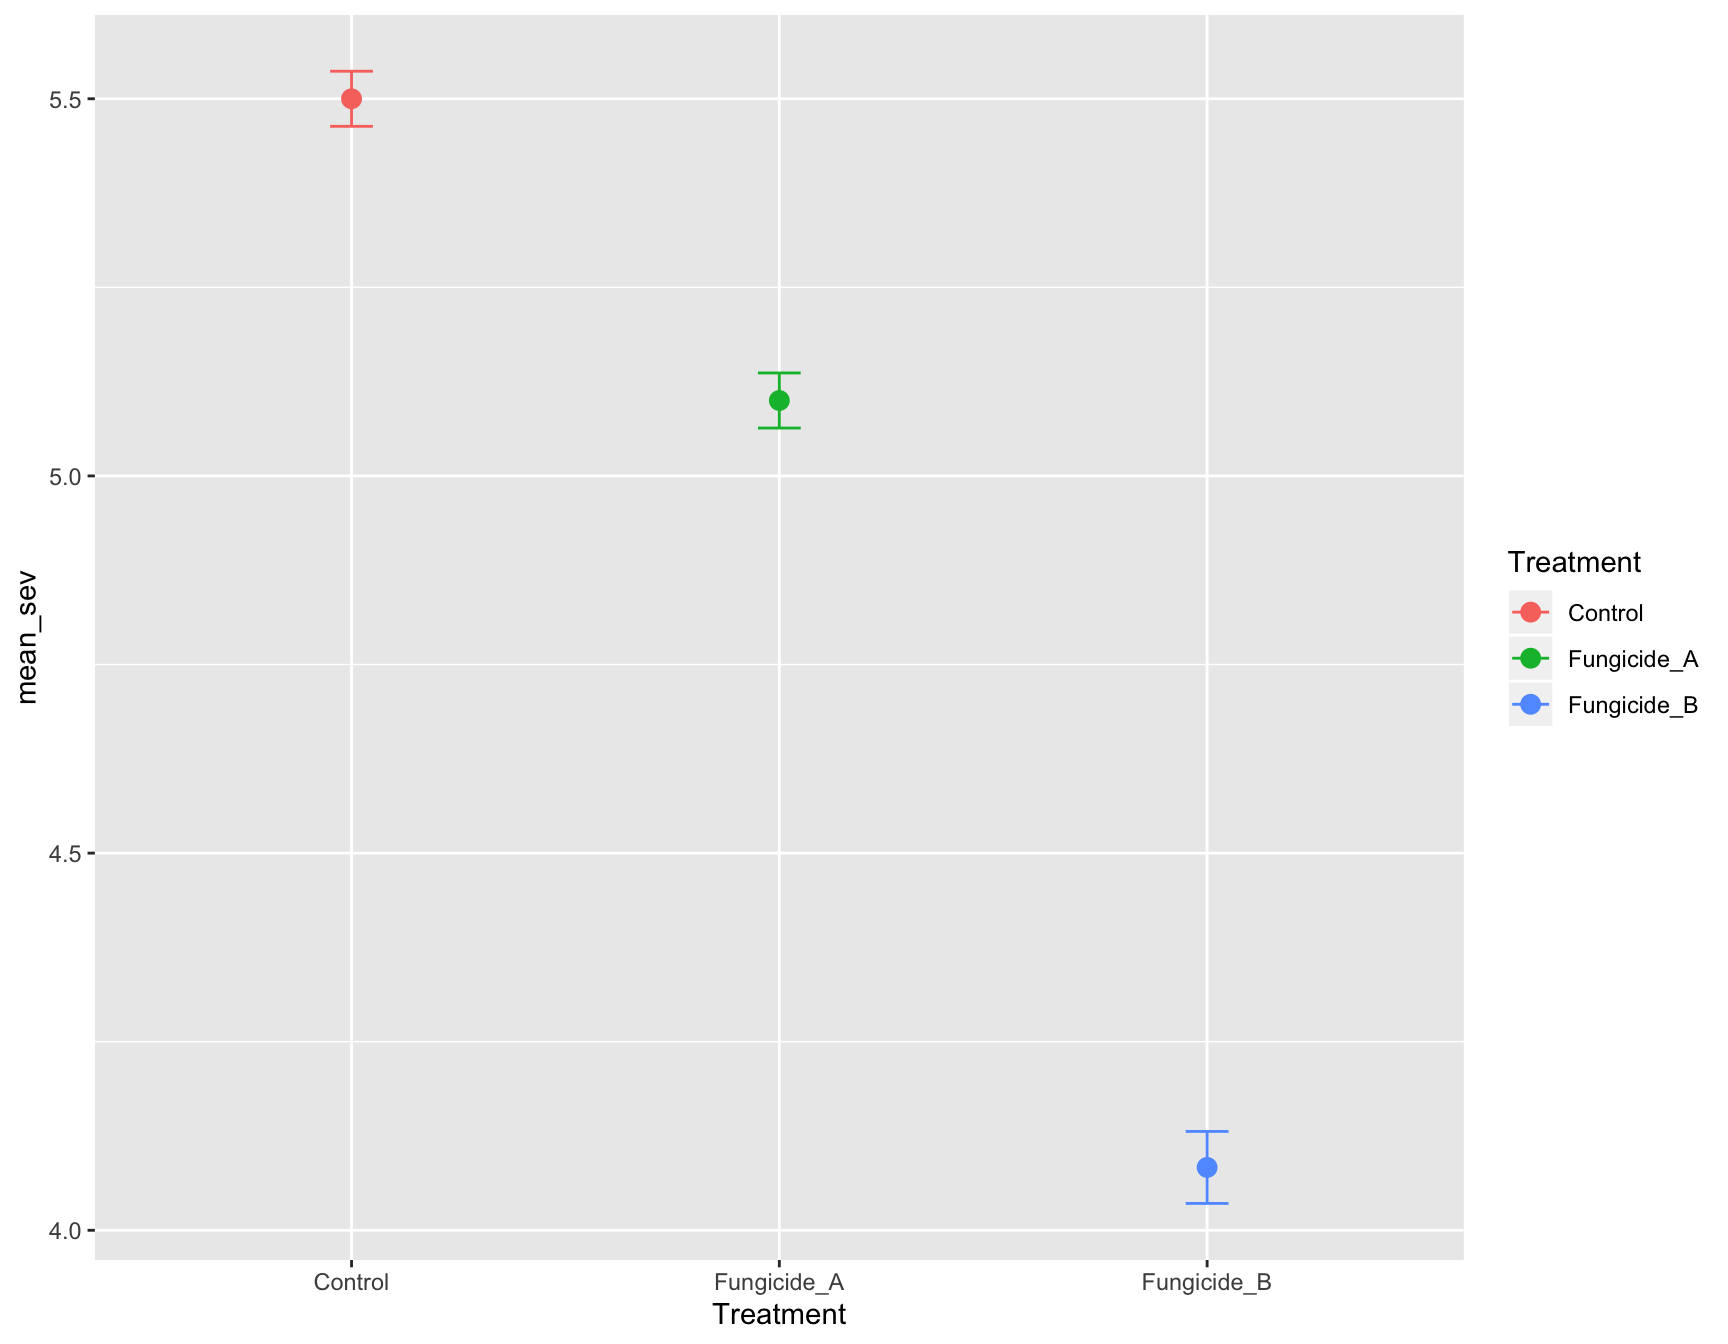
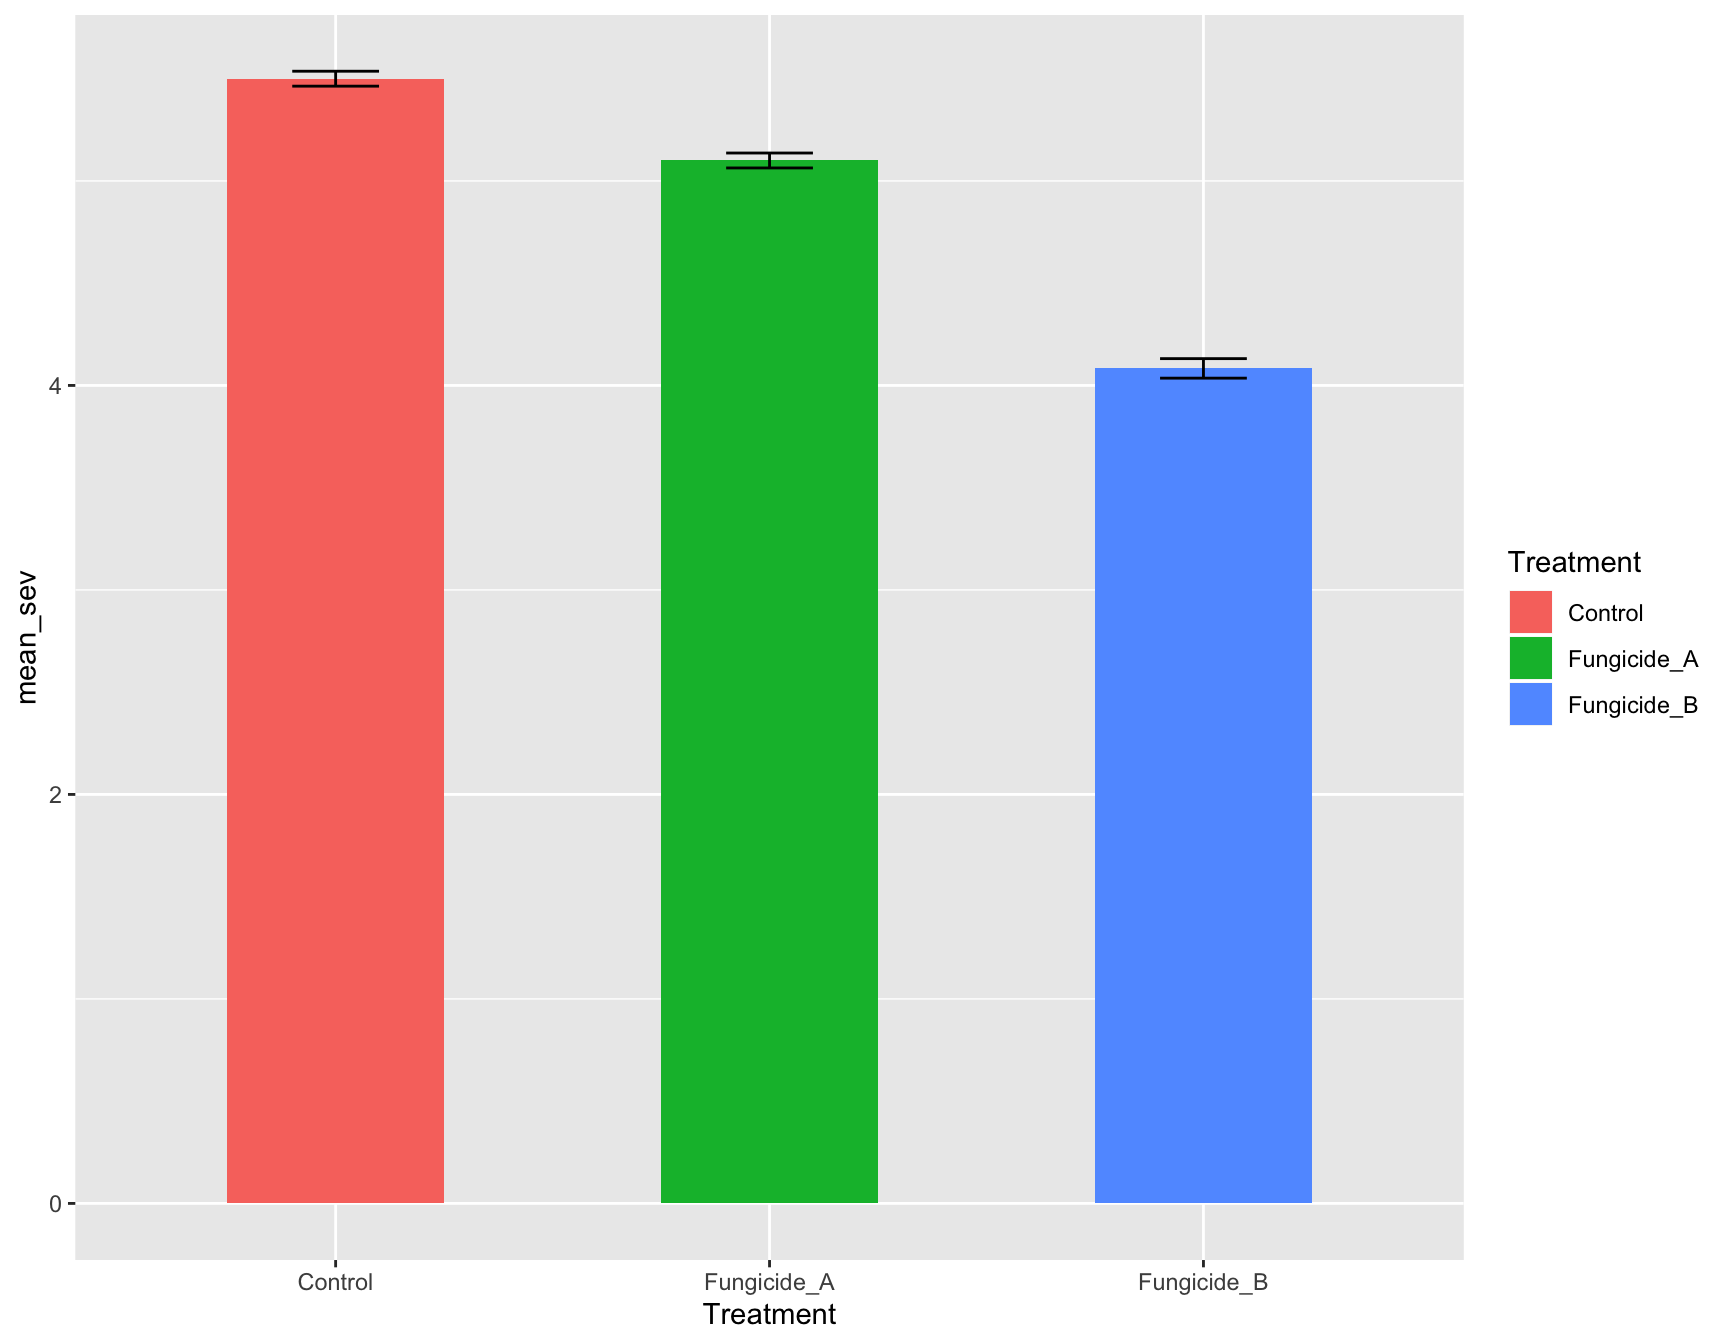
Added presentation for Part 1

diff --git a/docs/Part2b-Visualization.html b/docs/Part2b-Visualization.html
@@ -430,11 +430,7 @@ div.tocify {
 </div>
 <div id="getting-started" class="section level3">
 <h3>Getting started</h3>
-<pre class="r"><code>&gt; install.packages(&quot;ggplot2&quot;, 
-+                  repos = &quot;https://cran.rstudio.com&quot;)</code></pre>
-<pre><code>
-The downloaded binary packages are in
-    /var/folders/y1/z82xd0b501193md_9_d3vs9r0000gn/T//Rtmp1bvfKn/downloaded_packages</code></pre>
+<p>install.packages(“ggplot2”)</p>
 <pre class="r"><code>&gt; library(&quot;ggplot2&quot;)</code></pre>
 <p>Data for plotting with ggplot2 must be stored in a data frame</p>
 <pre class="r"><code>&gt; fungicide &lt;- read.csv(&quot;data/fungicide_dat.csv&quot;) # read.csv automatically outputs a data frame</code></pre>
@@ -611,12 +607,7 @@ The downloaded binary packages are in
 <pre class="r"><code>&gt; (severity.plot &lt;- severity.plot + 
 +     geom_boxplot(fill = c(&quot;gray&quot;, &quot;skyblue&quot;, &quot;violet&quot;)))</code></pre>
 <p><img src="Part2b-Visualization_files/figure-html/unnamed-chunk-20-1.png" width="100%" style="display: block; margin: auto;" /></p>
-<p>If you have a hard time selecting color combinations, don’t worry! The package “RColorBrewer” has a number of palettes that you can choose from.</p>
-<pre class="r"><code>&gt; install.packages(&quot;RColorBrewer&quot;, 
-+                  repos = &quot;https://cran.rstudio.com&quot;)</code></pre>
-<pre><code>
-The downloaded binary packages are in
-    /var/folders/y1/z82xd0b501193md_9_d3vs9r0000gn/T//Rtmp1bvfKn/downloaded_packages</code></pre>
+<p>If you have a hard time selecting color combinations, don’t worry! The package “RColorBrewer” has a number of palettes that you can choose from. install.packages(“RColorBrewer”)</p>
 <pre class="r"><code>&gt; library(&quot;RColorBrewer&quot;)</code></pre>
 <p>The function ’display.brewer.all’shows a list of available palettes. Let’s look for a palette that’s colorblind friendly.</p>
 <pre class="r"><code>&gt; display.brewer.all(colorblindFriendly=TRUE)</code></pre>
@@ -626,12 +617,7 @@ The downloaded binary packages are in
 +     geom_boxplot(aes(fill = Treatment)) +
 +     scale_fill_brewer(palette = &quot;Dark2&quot;))</code></pre>
 <p><img src="Part2b-Visualization_files/figure-html/unnamed-chunk-23-1.png" width="100%" style="display: block; margin: auto;" /></p>
-<p>The graph looks great, but does not tell us about the statistics. How can we show which treatments are significantly different? We can use the package <code>ggpubr</code> to automatically add p-values and significance levels to a ggplot.</p>
-<pre class="r"><code>&gt; install.packages(&quot;ggpubr&quot;, 
-+                  repos = &quot;https://cran.rstudio.com&quot;)</code></pre>
-<pre><code>
-The downloaded binary packages are in
-    /var/folders/y1/z82xd0b501193md_9_d3vs9r0000gn/T//Rtmp1bvfKn/downloaded_packages</code></pre>
+<p>The graph looks great, but does not tell us about the statistics. How can we show which treatments are significantly different? We can use the package <code>ggpubr</code> to automatically add p-values and significance levels to a ggplot. install.packages(“ggpubr”)</p>
 <pre class="r"><code>&gt; library(&quot;ggpubr&quot;)</code></pre>
 <pre><code>Loading required package: magrittr</code></pre>
 <p>Let’s add a global p-value to see if there is any global difference.</p>
@@ -670,11 +656,7 @@ Attaching package: &#39;dplyr&#39;</code></pre>
 <pre><code>The following objects are masked from &#39;package:base&#39;:
 
     intersect, setdiff, setequal, union</code></pre>
-<pre class="r"><code>&gt; install.packages(&quot;plotrix&quot;, 
-+                  repos = &quot;https://cran.rstudio.com&quot;)</code></pre>
-<pre><code>
-The downloaded binary packages are in
-    /var/folders/y1/z82xd0b501193md_9_d3vs9r0000gn/T//Rtmp1bvfKn/downloaded_packages</code></pre>
+<p>install.packages(“plotrix”)</p>
 <pre class="r"><code>&gt; library(&quot;plotrix&quot;)
 &gt; 
 &gt; fungicide_m_se &lt;- fungicide %&gt;%
@@ -687,31 +669,31 @@ The downloaded binary packages are in
 +                     aes(x = Treatment,
 +                         y = mean_sev))
 &gt; m_se_plot  </code></pre>
-<p><img src="Part2b-Visualization_files/figure-html/unnamed-chunk-29-1.png" width="100%" style="display: block; margin: auto;" /></p>
+<p><img src="Part2b-Visualization_files/figure-html/unnamed-chunk-30-1.png" width="100%" style="display: block; margin: auto;" /></p>
 <div id="bar-graph-with-standard-errors" class="section level3">
 <h3>Bar graph with standard errors</h3>
 <pre class="r"><code>&gt; (m_se_plot_bar &lt;- m_se_plot + 
 +     geom_col(aes(fill = Treatment),
 +              width = 0.5)) </code></pre>
-<p><img src="Part2b-Visualization_files/figure-html/unnamed-chunk-30-1.png" width="100%" style="display: block; margin: auto;" /></p>
+<p><img src="Part2b-Visualization_files/figure-html/unnamed-chunk-31-1.png" width="100%" style="display: block; margin: auto;" /></p>
 <pre class="r"><code>&gt; (m_se_plot_bar &lt;- m_se_plot_bar +
 +     geom_errorbar(aes(ymin = mean_sev - se_sev,
 +                       ymax = mean_sev + se_sev),
 +                   width = 0.2)) </code></pre>
-<p><img src="Part2b-Visualization_files/figure-html/unnamed-chunk-30-2.png" width="100%" style="display: block; margin: auto;" /></p>
+<p><img src="Part2b-Visualization_files/figure-html/unnamed-chunk-31-2.png" width="100%" style="display: block; margin: auto;" /></p>
 </div>
 <div id="point-plot-with-standard-errors" class="section level3">
 <h3>Point plot with standard errors</h3>
 <pre class="r"><code>&gt; (m_se_plot_point &lt;- m_se_plot + 
 +     geom_point(aes(color = Treatment),
 +                size = 3))</code></pre>
-<p><img src="Part2b-Visualization_files/figure-html/unnamed-chunk-31-1.png" width="100%" style="display: block; margin: auto;" /></p>
+<p><img src="Part2b-Visualization_files/figure-html/unnamed-chunk-32-1.png" width="100%" style="display: block; margin: auto;" /></p>
 <pre class="r"><code>&gt; (m_se_plot_point &lt;- m_se_plot_point + 
 +     geom_errorbar(aes(ymin = mean_sev - se_sev,
 +                       ymax = mean_sev + se_sev,
 +                       color = Treatment),
 +                   width = 0.1))</code></pre>
-<p><img src="Part2b-Visualization_files/figure-html/unnamed-chunk-31-2.png" width="100%" style="display: block; margin: auto;" /></p>
+<p><img src="Part2b-Visualization_files/figure-html/unnamed-chunk-32-2.png" width="100%" style="display: block; margin: auto;" /></p>
 <p>You can follow the same steps that we followed for <code>yield.plot</code> to transform these plots to publication quality.</p>
 </div>
 </div>

diff --git a/docs/Part2a-Analysis.html b/docs/Part2a-Analysis.html
@@ -550,13 +550,7 @@ div.tocify {
 </div>
 <div id="step-3-advanced-data-manipulation" class="section level2">
 <h2>Step 3: Advanced data manipulation</h2>
-<p>The package ‘dplyr’ provides functions for easy and advanced data manipulation. If we want to use it, we can download the package to our computer with the function <code>install.packages()</code>. This will install a package from CRAN and place it into your R <em>Library</em>.</p>
-<pre class="r"><code>&gt; install.packages(&quot;dplyr&quot;, 
-+                  repos = &quot;https://cran.rstudio.com&quot;)</code></pre>
-<pre><code>
-The downloaded binary packages are in
-    /var/folders/y1/z82xd0b501193md_9_d3vs9r0000gn/T//RtmpZNVHgK/downloaded_packages</code></pre>
-<p>To load this package, we can use the function <code>library()</code>.</p>
+<p>The package ‘dplyr’ provides functions for easy and advanced data manipulation. If we want to use it, we can download the package to our computer with the function <code>install.packages()</code>. This will install a package from CRAN and place it into your R <em>Library</em>. install.packages(“dplyr”) To load this package, we can use the function <code>library()</code>.</p>
 <pre class="r"><code>&gt; library(&quot;dplyr&quot;)</code></pre>
 <pre><code>
 Attaching package: &#39;dplyr&#39;</code></pre>
